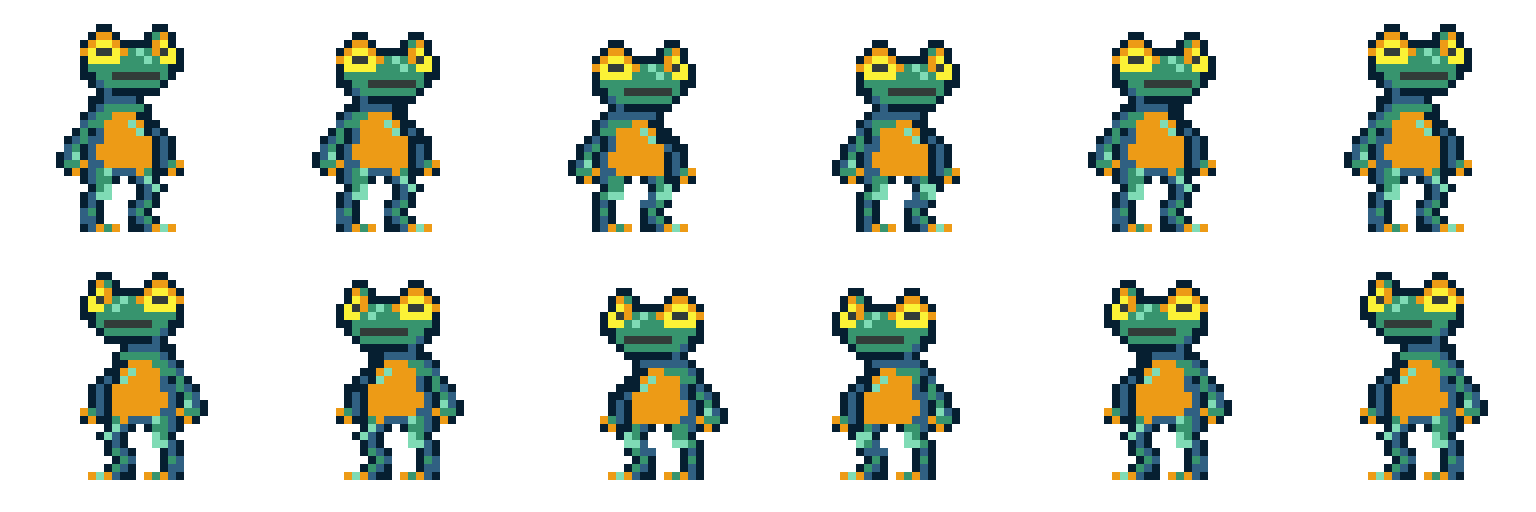
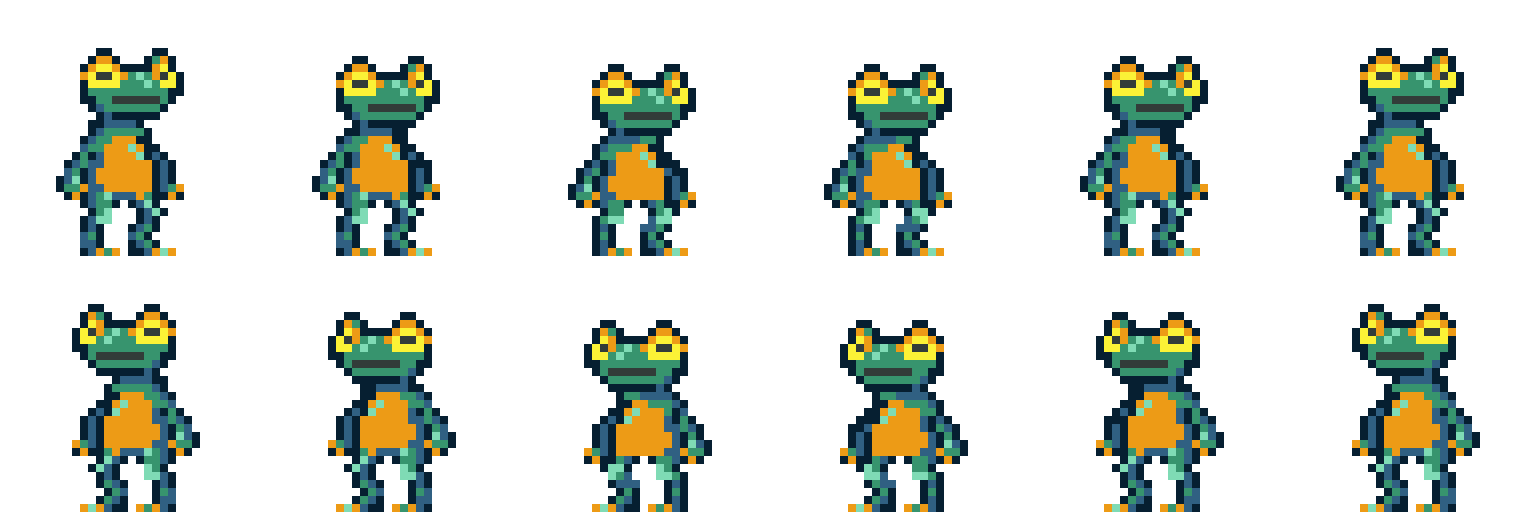
Add initial wall cling mechanic

diff --git a/src/gameObjects/player.ts b/src/gameObjects/player.ts
@@ -16,6 +16,7 @@ export default class Player extends Character {
   private canDoubleJump = false
   private tongueSprite: Phaser.Physics.Arcade.Sprite | null
   private inAttackCooldown: boolean
+  public wallClingDirection: Direction | null
   protected die: (() => void) | null
   protected readonly knockback = 42.5
 
@@ -23,6 +24,7 @@ export default class Player extends Character {
     super(5, 1, 64, 64, 'frog', scene)
     this.tongueSprite = null
     this.inAttackCooldown = false
+    this.wallClingDirection = null
     this.die = die
   }
 
@@ -66,6 +68,27 @@ export default class Player extends Character {
     }
   }
 
+  public climb(multiplier: number): void {
+    if (!this.container) return
+
+    if ((<Phaser.Physics.Arcade.Body>this.container.body).touching.down) {
+      this.stopWallCling()
+
+      return
+    }
+
+    const velocityY = this.moveSpeed * multiplier
+    ;(<Phaser.Physics.Arcade.Body>this.container.body).setVelocityY(velocityY)
+
+    if (velocityY > 0) {
+      this.direction = Direction.Down
+    } else if (velocityY < 0) {
+      this.direction = Direction.Up
+    }
+
+    this.idle = false
+  }
+
   public bounce(multiplier: number): void {
     if (!this.container) return
 
@@ -79,7 +102,13 @@ export default class Player extends Character {
     if (!this.container || !this.sprite) return
 
     // TODO: Implement 'jump' and 'fall' animations when we'll have them
-    if (this.idle) {
+    if (this.wallClingDirection !== null) {
+      if (this.wallClingDirection === Direction.Left) {
+        this.sprite.anims.play(`${this.assetPrefix}_idle_left`, true)
+      } else {
+        this.sprite.anims.play(`${this.assetPrefix}_idle_right`, true)
+      }
+    } else if (this.idle) {
       if (this.direction === Direction.Left) {
         this.sprite.anims.play(`${this.assetPrefix}_idle_left`, true)
       } else {
@@ -96,7 +125,7 @@ export default class Player extends Character {
     this.sprite.setDisplaySize(this.spriteWidth, this.spriteHeight)
   }
 
-  public displayHp(): string {
+  public getDisplayHp(): string {
     return `Health: ${this.currentHp}/${this.maxHp}`
   }
 
@@ -114,6 +143,54 @@ export default class Player extends Character {
 
     this.scene.sound.get('hurt').play()
     super.handleHit(direction, damage)
+  }
+
+  public clingToWall(): void {
+    if (
+      this.wallClingDirection !== null ||
+      !this.container ||
+      (this.container.body as Phaser.Physics.Arcade.Body).wasTouching.down
+    )
+      return
+
+    if ((this.container.body as Phaser.Physics.Arcade.Body).touching.left) {
+      this.wallClingDirection = Direction.Left
+    } else if (
+      (this.container.body as Phaser.Physics.Arcade.Body).touching.right
+    ) {
+      this.wallClingDirection = Direction.Right
+    } else if (
+      (this.container.body as Phaser.Physics.Arcade.Body).touching.up
+    ) {
+      this.wallClingDirection = Direction.Up
+    }
+
+    if (this.wallClingDirection === null) return
+    ;(<Phaser.Physics.Arcade.Body>this.container.body).setVelocity(0, 0)
+    ;(<Phaser.Physics.Arcade.Body>this.container.body).setAllowGravity(false)
+
+    this.updateAnimation()
+  }
+
+  public wallJump(multiplier: number): void {
+    if (!this.container) return
+
+    this.wallClingDirection = null
+    ;(<Phaser.Physics.Arcade.Body>this.container.body).setAllowGravity(true)
+    ;(<Phaser.Physics.Arcade.Body>this.container.body).setVelocityY(
+      this.jumpStrength * multiplier
+    )
+
+    this.canDoubleJump = true
+
+    this.updateAnimation()
+  }
+
+  public stopWallCling(): void {
+    if (!this.container) return
+
+    this.wallClingDirection = null
+    ;(<Phaser.Physics.Arcade.Body>this.container.body).setAllowGravity(true)
   }
 
   protected makeInvulnerable(): void {

diff --git a/src/helpers/inputHelper.ts b/src/helpers/inputHelper.ts
@@ -33,6 +33,29 @@ export default class InputHelper {
   ): void {
     if (!this.hotKeys) return
 
+    if (player.wallClingDirection !== null) {
+      this.handleWallClingMovement(
+        player,
+        velocityXModifier,
+        velocityYModifier,
+        planetFrictionModifier
+      )
+    } else {
+      this.handleRegularMovement(
+        player,
+        velocityXModifier,
+        velocityYModifier,
+        planetFrictionModifier
+      )
+    }
+  }
+
+  private handleRegularMovement(
+    player: Player,
+    velocityXModifier: number,
+    velocityYModifier: number,
+    planetFrictionModifier: number
+  ): void {
     if (this.hotKeys.A.isDown) {
       player.run(-velocityXModifier)
     } else if (this.hotKeys.D.isDown) {
@@ -42,6 +65,36 @@ export default class InputHelper {
     }
     if (Phaser.Input.Keyboard.JustDown(this.hotKeys.SPACE)) {
       player.jump(-velocityYModifier)
+    }
+  }
+
+  private handleWallClingMovement(
+    player: Player,
+    velocityXModifier: number,
+    velocityYModifier: number,
+    planetFrictionModifier: number
+  ): void {
+    if (player.wallClingDirection === Direction.Up) {
+      if (this.hotKeys.S.isDown) {
+        player.stopWallCling()
+      } else if (this.hotKeys.A.isDown) {
+        player.run(-velocityXModifier * 0.75)
+      } else if (this.hotKeys.D.isDown) {
+        player.run(velocityXModifier * 0.75)
+      } else {
+        player.stop(planetFrictionModifier)
+      }
+    } else {
+      if (this.hotKeys.W.isDown) {
+        player.climb(-velocityYModifier / 2)
+      } else if (this.hotKeys.S.isDown) {
+        player.climb(velocityYModifier / 2)
+      } else {
+        player.climb(0)
+      }
+      if (Phaser.Input.Keyboard.JustDown(this.hotKeys.SPACE)) {
+        player.wallJump(-velocityYModifier)
+      }
     }
   }
 

diff --git a/src/scenes/planets/planetScene.ts b/src/scenes/planets/planetScene.ts
@@ -120,7 +120,7 @@ export default abstract class PlanetScene extends Phaser.Scene {
 
   protected initializeTexts(): void {
     this.displayHp = this.add
-      .text(150, 110, this.player.displayHp(), {
+      .text(150, 110, this.player.getDisplayHp(), {
         font: ' 20px monospace',
         fill: '#FFFFFF'
       })
@@ -134,7 +134,7 @@ export default abstract class PlanetScene extends Phaser.Scene {
   }
 
   private updateTexts(): void {
-    this.displayHp?.setText(this.player.displayHp())
+    this.displayHp?.setText(this.player.getDisplayHp())
     this.displayScore?.setText((this.game as TheLostFrogGame).displayScore())
   }
 

diff --git a/src/providers/characterConfigProvider.ts b/src/providers/characterConfigProvider.ts
@@ -42,7 +42,7 @@ export default abstract class CharacterConfigProvider {
       hitAreaWidth: 28,
       hitAreaHeight: 45,
       spriteOffsetX: 0,
-      spriteOffsetY: 0
+      spriteOffsetY: -10
     }
   }
 
@@ -82,7 +82,7 @@ export default abstract class CharacterConfigProvider {
       hitAreaWidth: 48,
       hitAreaHeight: 24,
       spriteOffsetX: 0,
-      spriteOffsetY: 0
+      spriteOffsetY: -2
     }
   }
 }

diff --git a/src/helpers/collisionHelper.ts b/src/helpers/collisionHelper.ts
@@ -36,7 +36,13 @@ export default class CollisionHelper {
   ): void {
     if (!platformGroup) return
 
-    this.physics.add.collider([this.player.getContainer()], platformGroup)
+    this.physics.add.collider(
+      [this.player.getContainer()],
+      platformGroup,
+      () => {
+        this.player.clingToWall()
+      }
+    )
   }
 
   private setEnemyWorldCollisions(): void {

diff --git a/src/providers/platformConfigProvider.ts b/src/providers/platformConfigProvider.ts
@@ -19,7 +19,7 @@ export default abstract class PlatformConfigProvider {
       height: 64,
       spriteKey: 'platform_v1',
       checkUpCollision: true,
-      checkDownCollision: false,
+      checkDownCollision: true,
       checkLeftCollision: true,
       checkRightCollision: true
     }
